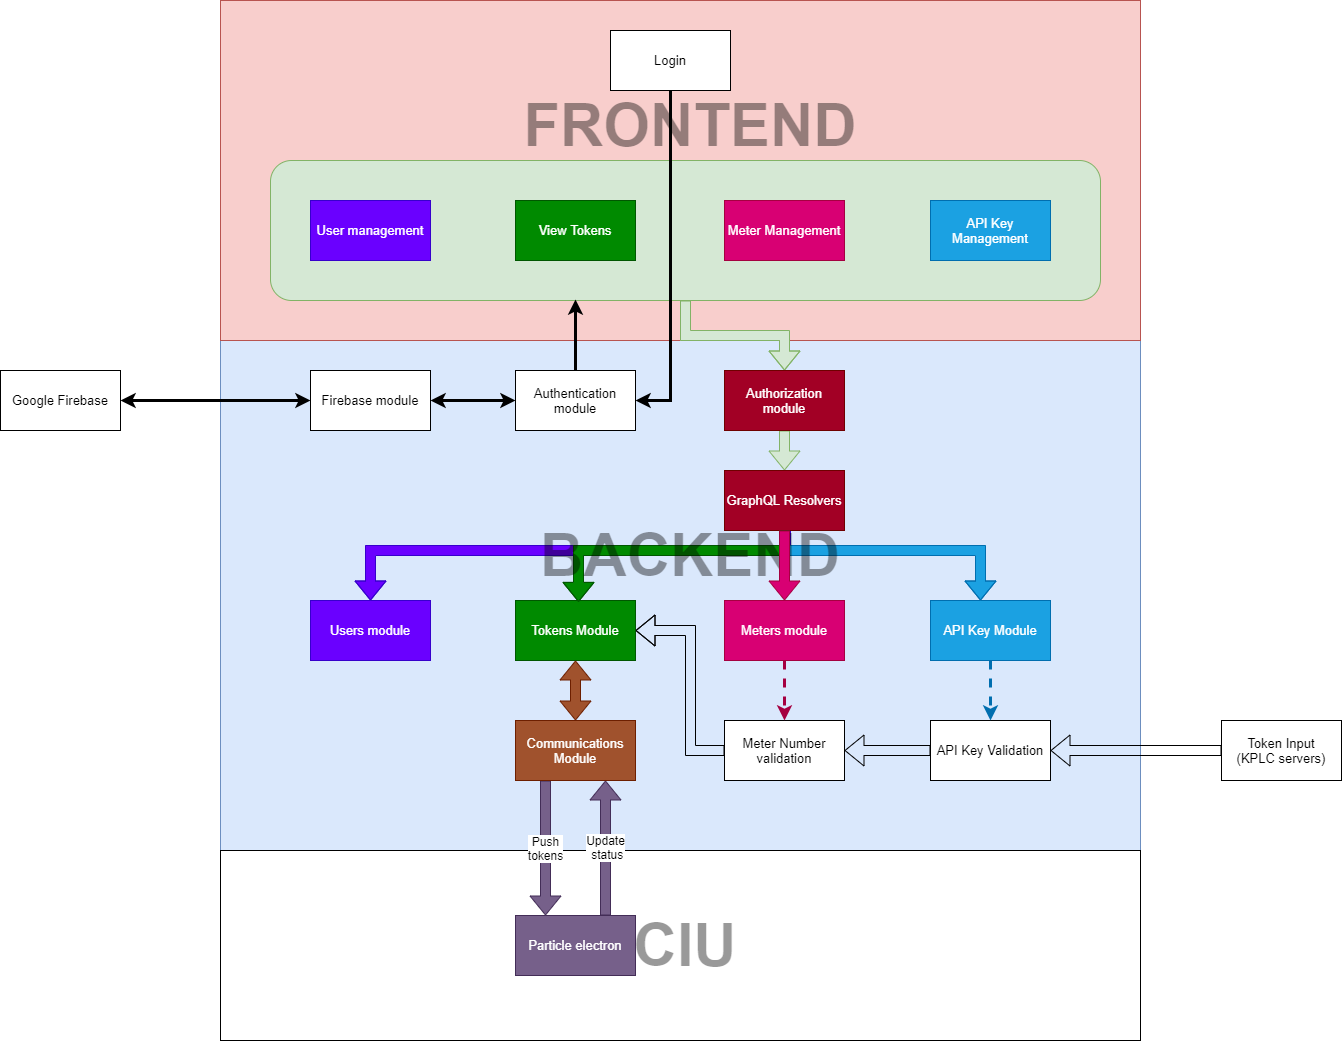
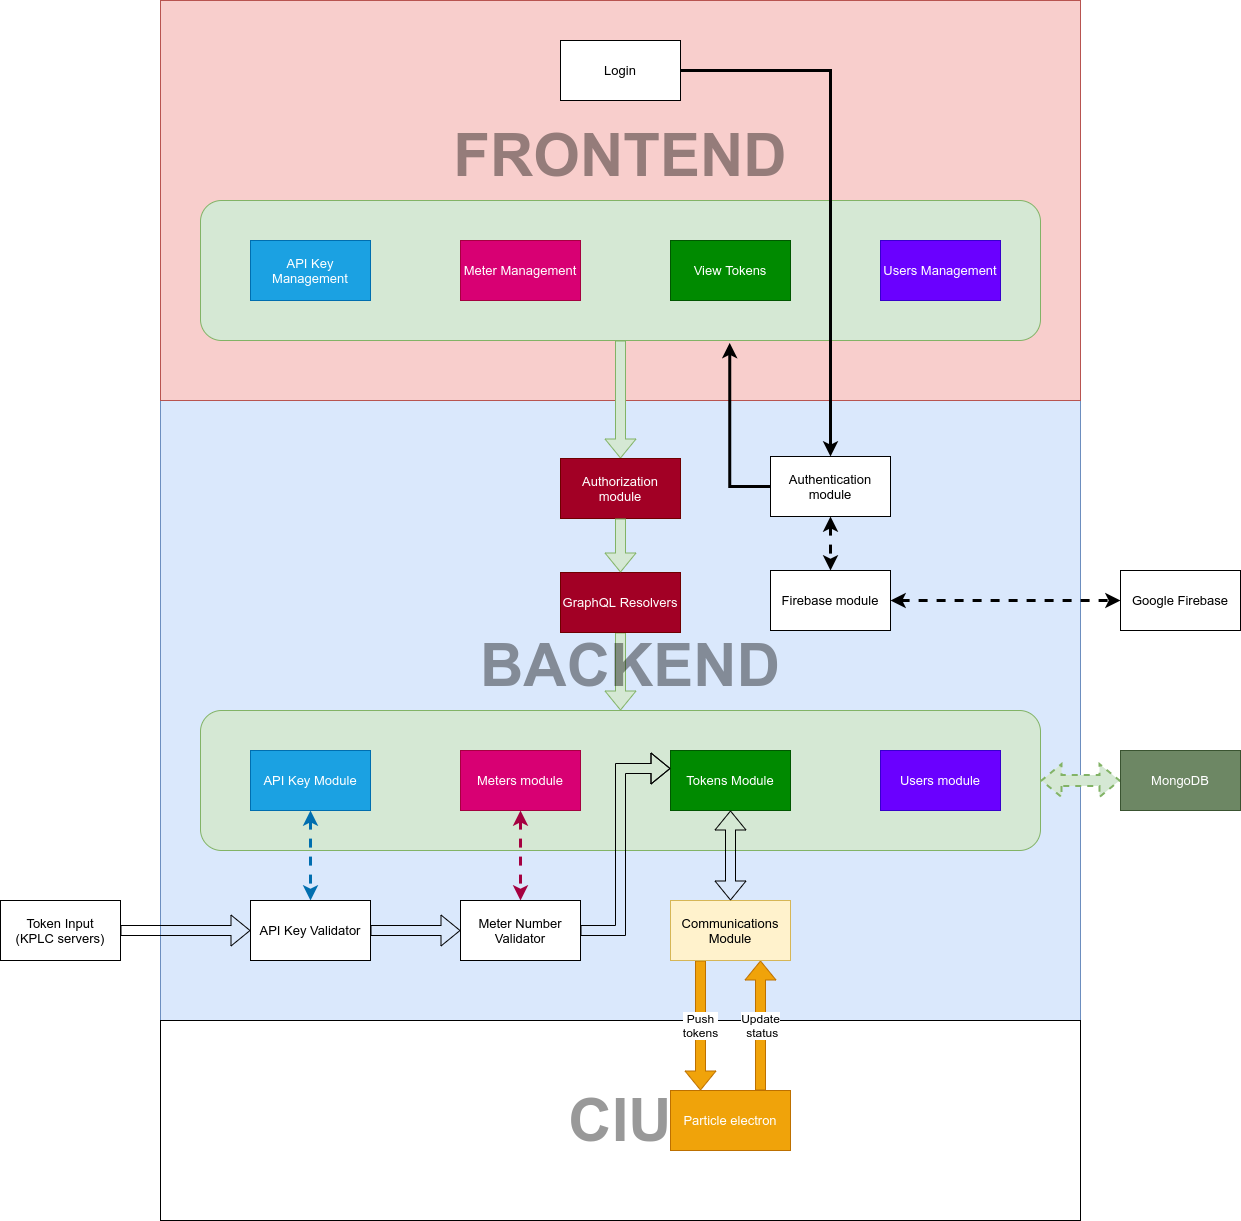
Documentation 📒 📒 📒

diff --git a/README.md b/README.md
@@ -1,6 +1,16 @@
 # ATS ![logo](assets/logo/orange.png)
 
-This hosts code for Automated Token System
+This hosts code for Automated Token System.
+ATS automates the process of loading KPLC tokens to the meter by augmenting keypresses on the CIU.  
+In order for this process to happen, the system relies on KPLC sending the token and meter number on purchase.  
+Every KPLC Request MUST contain an API Key in the header, something managed by the system.  
+The system keeps an independent database of registered meters.
+
+# Simplified Logic
+
+![structure](assets/logicv2.png)
+
+# Backend Documentation
 
 Folder structure  
 /app containes server-side code  
@@ -52,20 +62,31 @@ Merits:
 4. We can leverage on the free hosting as well (Hence leave backend to host API ONLY)
 5. The backend retains full control
 
-# Logic
+# Running the server locally
 
-![structure](assets/logicv2.png)
+Make sure Golang, Node and Angular CLI are installed on your system.  
+You may need to update your permissions in case you run into EACCESS Errors on npm.
+
+1. Navigate to the project folder, then on two separate terminals, navigate to the /cmd and /frontend folders.
+2. Terminal1(/cmd) execute `go run *.go`  
+   This will run the backend golang app on open port 4242 (Unless you've specified an environment variable "PORT" in which case it will use the port specified. Make sure it is not in use by another program)  
+   Make sure you have internet so that the app can connect to a cloud hosted instance of Mongodb
+3. Termina2(/frontend) execute ` ng serve`  
+   This will run the frontend angular app on port 4200  
+   Open your browser of choice and navigate to the url "localhost:4200/"  
+   You should be prompted to login if this is your first time running the app locally.
 
 # Creating A Sample Token
 
-Obtain the Active API-Key from the dashboad  
-Run on the terminal  
+Obtain the Active API-Key from the dashboad
+
+Run this command on the terminal  
 `curl --request POST \ --url https://atske.herokuapp.com/token \ --header 'Authorization: [API KEY]' \ --header 'Content-Type: application/json' \ --data '{ "meterNumber": "[TARGET METER NUMBER]", "tokenString": "[TOKEN]" }'`
 
 Replace [API KEY] With the value obtained from the dashboard  
-Replace "https://atske.herokuapp.com/token" with "http://localhost:4242/token" if your server is srunning locally  
-Replace [TARGET METER NUMBER] with the meter number
+Replace [TARGET METER NUMBER] with the meter number  
 Replace [TOKEN] with the token Number
+Replace "https://atske.herokuapp.com/token" with "http://localhost:4242/token" if your server is srunning locally
 
 If you get the response "Success" the operation was successful, hence refresh your page and the token should shouw up.  
 Otherwise, please NOTE:
